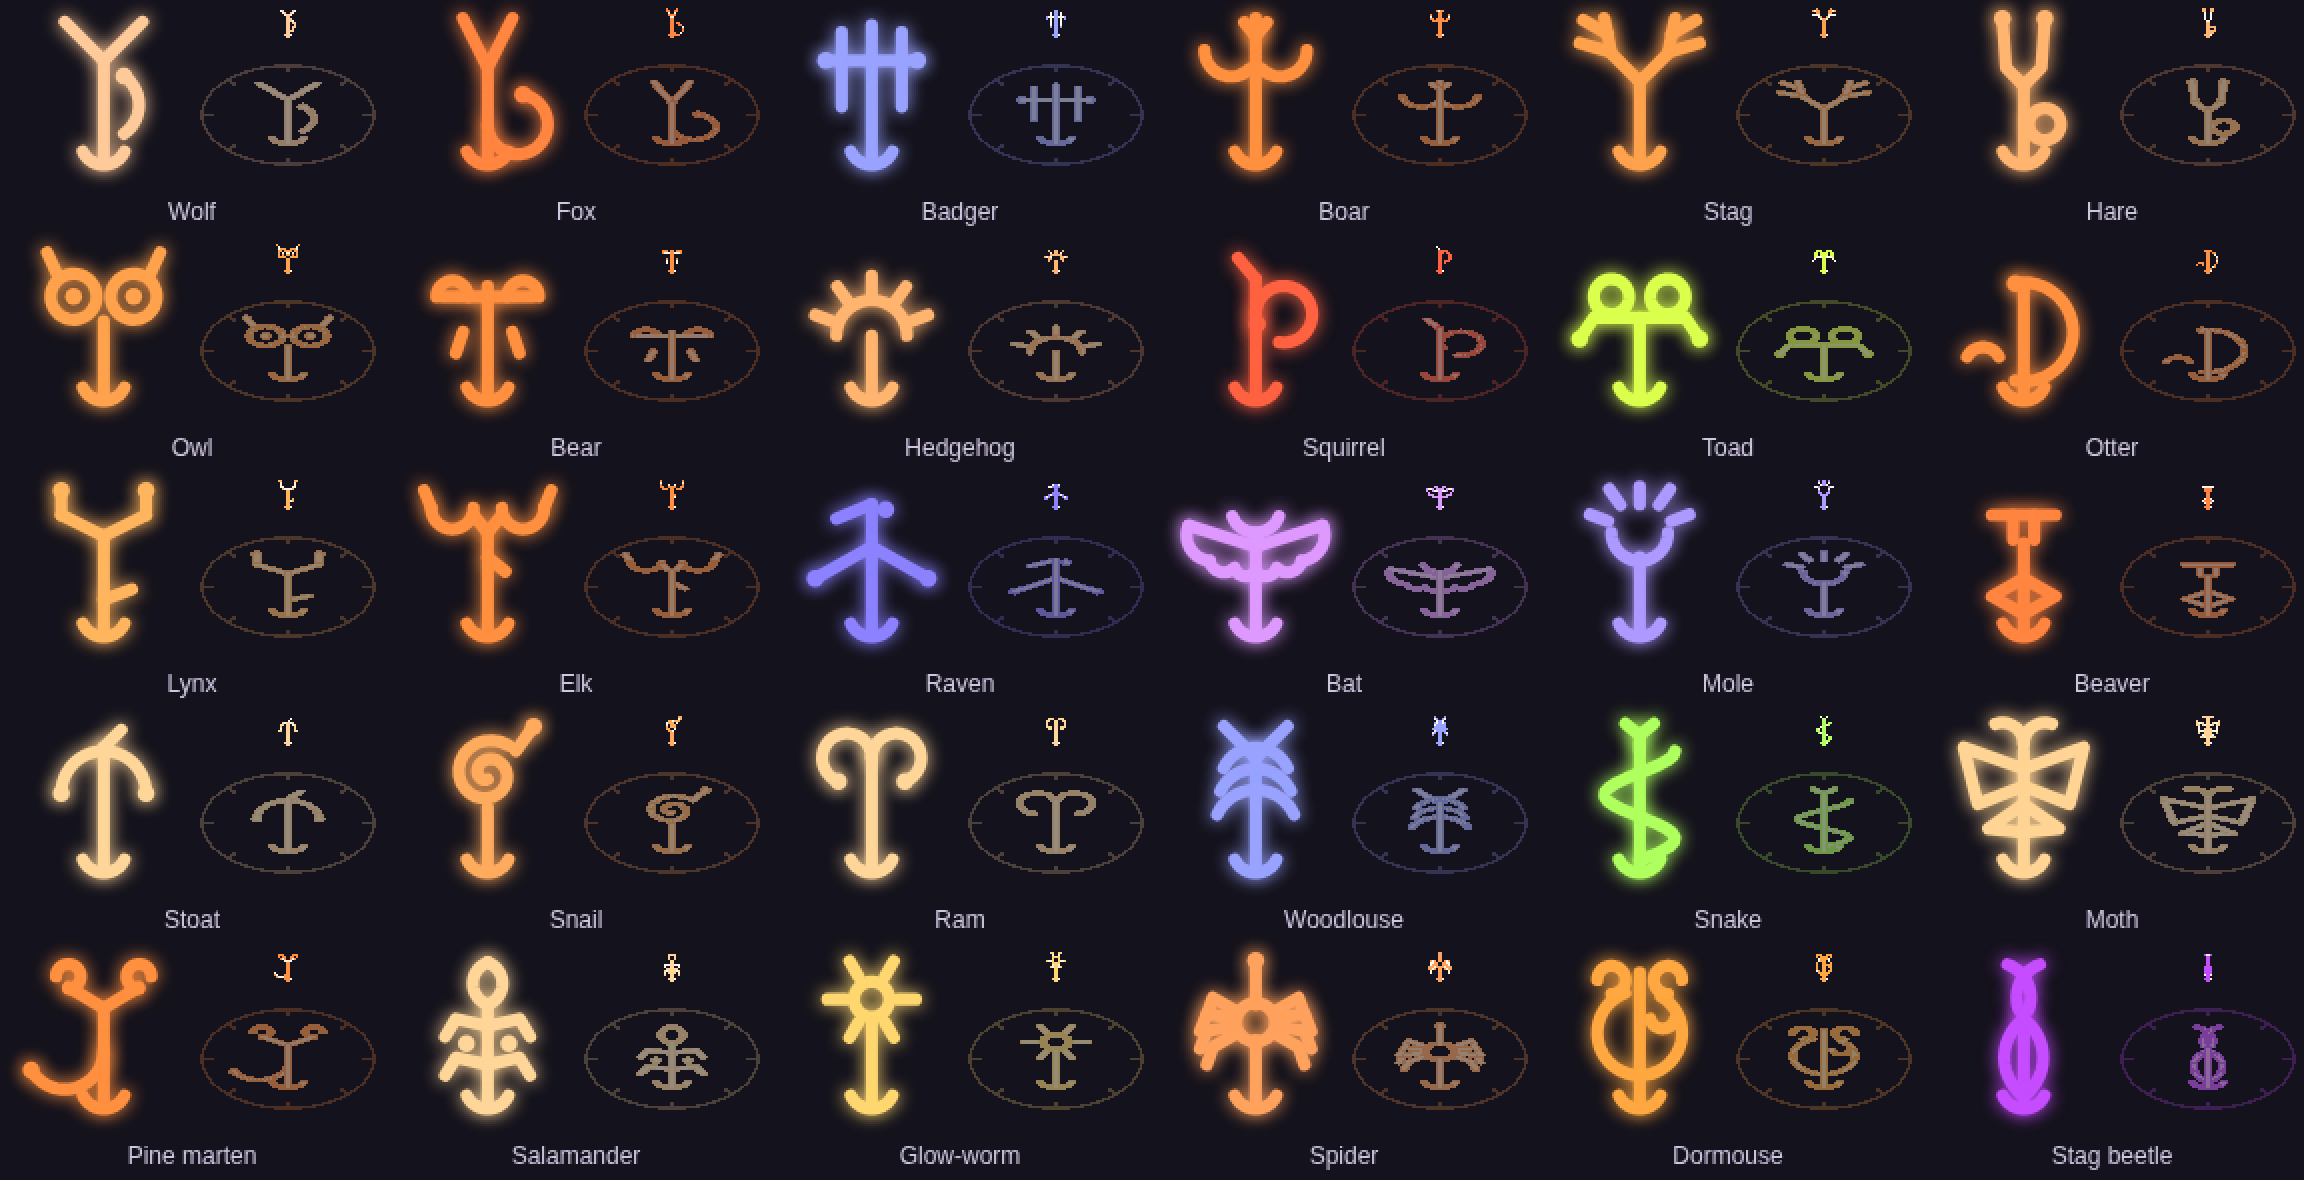
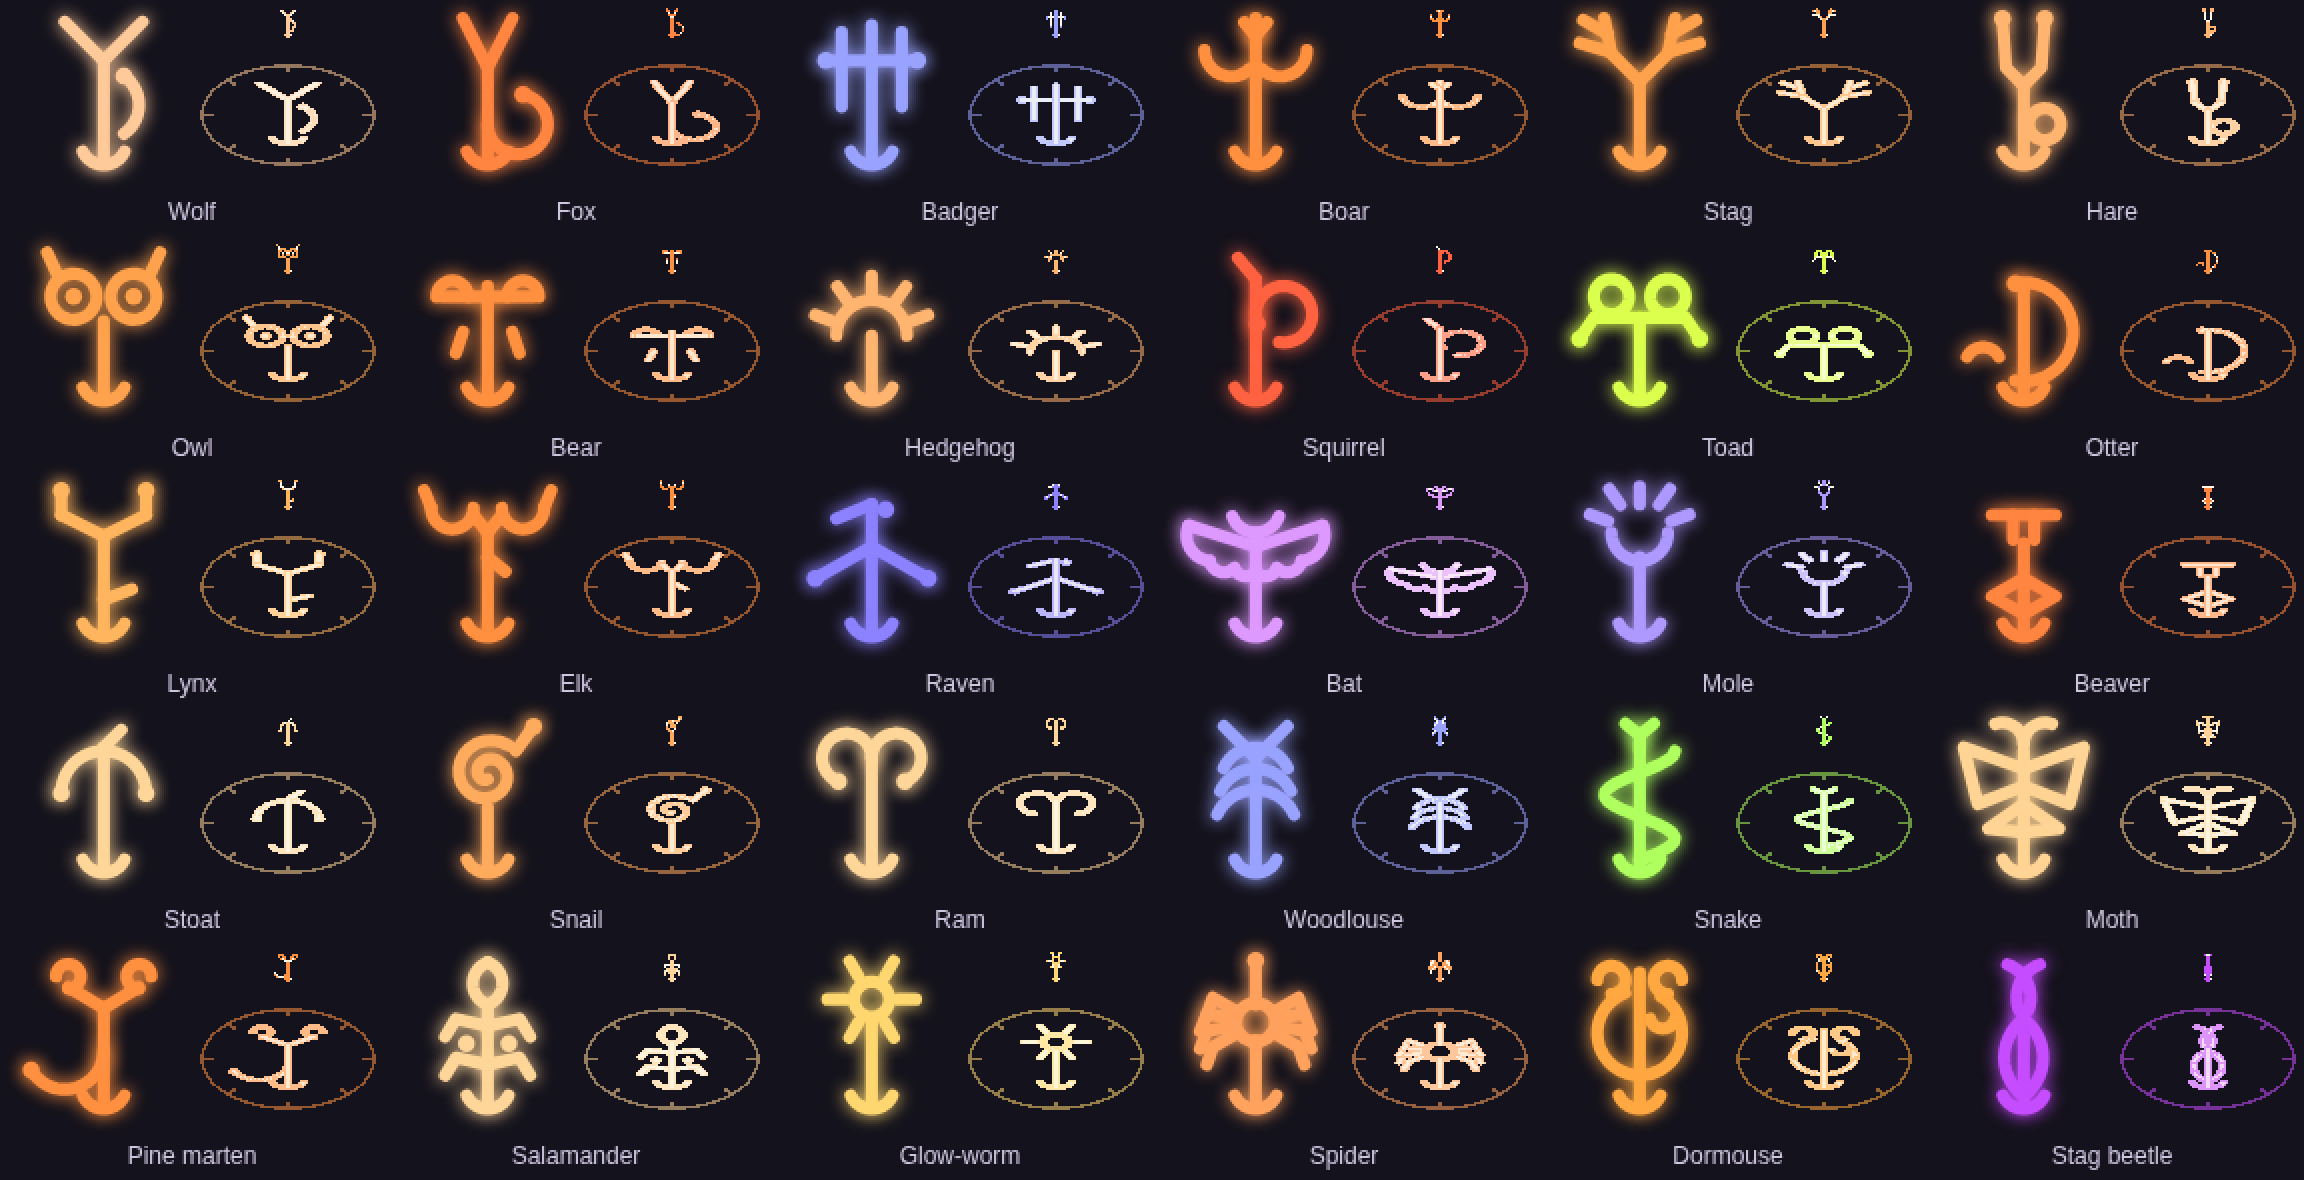
Sigils: the ground rune brightens as it pulses; draw-on preview
Claude-Session: https://claude.ai/code/session_01FVGKHvaavDn5xGsWtRTBaz

diff --git a/art/sigils.js b/art/sigils.js
@@ -239,14 +239,15 @@ export function groundSigil(id, { diameter = 64, pitch = GROUND_PITCH, ring = tr
 // returns it; the ring is faint, the stroke cores bright.
 export function paintGroundSigil(g, t, { colour = sigilColour(g.id), canvas, makeCanvas = (w, h) => Object.assign(document.createElement("canvas"), { width: w, height: h }) } = {}) {
   const c = canvas || makeCanvas(g.w, g.h), ctx = c.getContext("2d"), img = ctx.createImageData(g.w, g.h), d = img.data;
-  const p = Math.min(1, t / SIGIL_DRAW_TIME), pulse = t < SIGIL_DRAW_TIME ? 1 : .78 + .22 * Math.cos((t - SIGIL_DRAW_TIME) * Math.PI * 2 / 1.6);
+  // pulse: 0..1, rising and falling every 1.6 s once it is written; it brightens the strokes
+  const p = Math.min(1, t / SIGIL_DRAW_TIME), pulse = t < SIGIL_DRAW_TIME ? 0 : .5 - .5 * Math.cos((t - SIGIL_DRAW_TIME) * Math.PI * 2 / 1.6);
   const white = [255, 255, 245];
   for (let i = 0; i < g.at.length; i++) {
     const a = g.at[i]; if (!(a <= p)) continue;
-    const fresh = Math.max(0, 1 - (p - a) * 8) * (p < 1 ? 1 : 0); // the pen's tip is brightest
+    const fresh = p < 1 ? Math.max(0, 1 - (p - a) * 8) : 0; // the pen's tip is brightest
     let col, alpha;
-    if (g.core[i] === 0) { col = colour; alpha = 110 * pulse; }
-    else { const k = g.core[i] === 2 ? .55 : .1; col = colour.map((v, j) => v + (white[j] - v) * Math.min(1, k + fresh)); alpha = 254 * Math.min(1, pulse + fresh); }
+    if (g.core[i] === 0) { col = colour; alpha = 90 + 50 * pulse; }
+    else { const k = (g.core[i] === 2 ? .5 : .1) + .3 * pulse; col = colour.map((v, j) => v + (white[j] - v) * Math.min(1, k + fresh)); alpha = 254; }
     d.set([col[0], col[1], col[2], alpha | 0], i * 4);
   }
   ctx.putImageData(img, 0, 0);

diff --git a/tools/art-lab/dist/witch-art-lab.html b/tools/art-lab/dist/witch-art-lab.html
@@ -1803,14 +1803,15 @@ function groundSigil(id, { diameter = 64, pitch = GROUND_PITCH, ring = true } = 
 // returns it; the ring is faint, the stroke cores bright.
 function paintGroundSigil(g, t, { colour = sigilColour(g.id), canvas, makeCanvas = (w, h) => Object.assign(document.createElement("canvas"), { width: w, height: h }) } = {}) {
   const c = canvas || makeCanvas(g.w, g.h), ctx = c.getContext("2d"), img = ctx.createImageData(g.w, g.h), d = img.data;
-  const p = Math.min(1, t / SIGIL_DRAW_TIME), pulse = t < SIGIL_DRAW_TIME ? 1 : .78 + .22 * Math.cos((t - SIGIL_DRAW_TIME) * Math.PI * 2 / 1.6);
+  // pulse: 0..1, rising and falling every 1.6 s once it is written; it brightens the strokes
+  const p = Math.min(1, t / SIGIL_DRAW_TIME), pulse = t < SIGIL_DRAW_TIME ? 0 : .5 - .5 * Math.cos((t - SIGIL_DRAW_TIME) * Math.PI * 2 / 1.6);
   const white = [255, 255, 245];
   for (let i = 0; i < g.at.length; i++) {
     const a = g.at[i]; if (!(a <= p)) continue;
-    const fresh = Math.max(0, 1 - (p - a) * 8) * (p < 1 ? 1 : 0); // the pen's tip is brightest
+    const fresh = p < 1 ? Math.max(0, 1 - (p - a) * 8) : 0; // the pen's tip is brightest
     let col, alpha;
-    if (g.core[i] === 0) { col = colour; alpha = 110 * pulse; }
-    else { const k = g.core[i] === 2 ? .55 : .1; col = colour.map((v, j) => v + (white[j] - v) * Math.min(1, k + fresh)); alpha = 254 * Math.min(1, pulse + fresh); }
+    if (g.core[i] === 0) { col = colour; alpha = 90 + 50 * pulse; }
+    else { const k = (g.core[i] === 2 ? .5 : .1) + .3 * pulse; col = colour.map((v, j) => v + (white[j] - v) * Math.min(1, k + fresh)); alpha = 254; }
     d.set([col[0], col[1], col[2], alpha | 0], i * 4);
   }
   ctx.putImageData(img, 0, 0);
